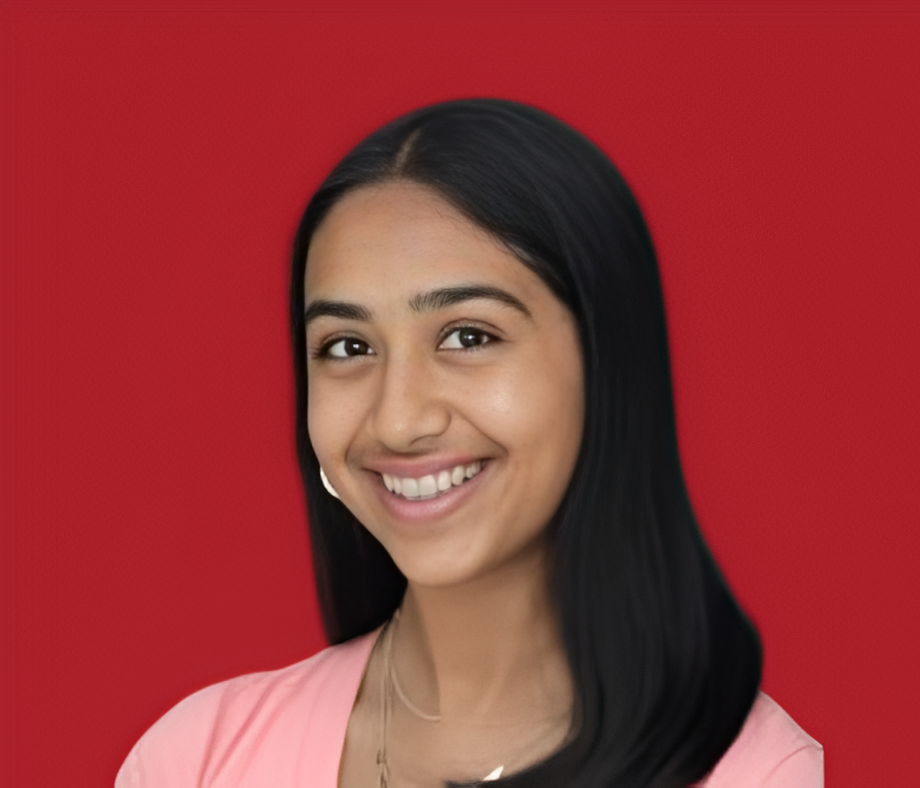
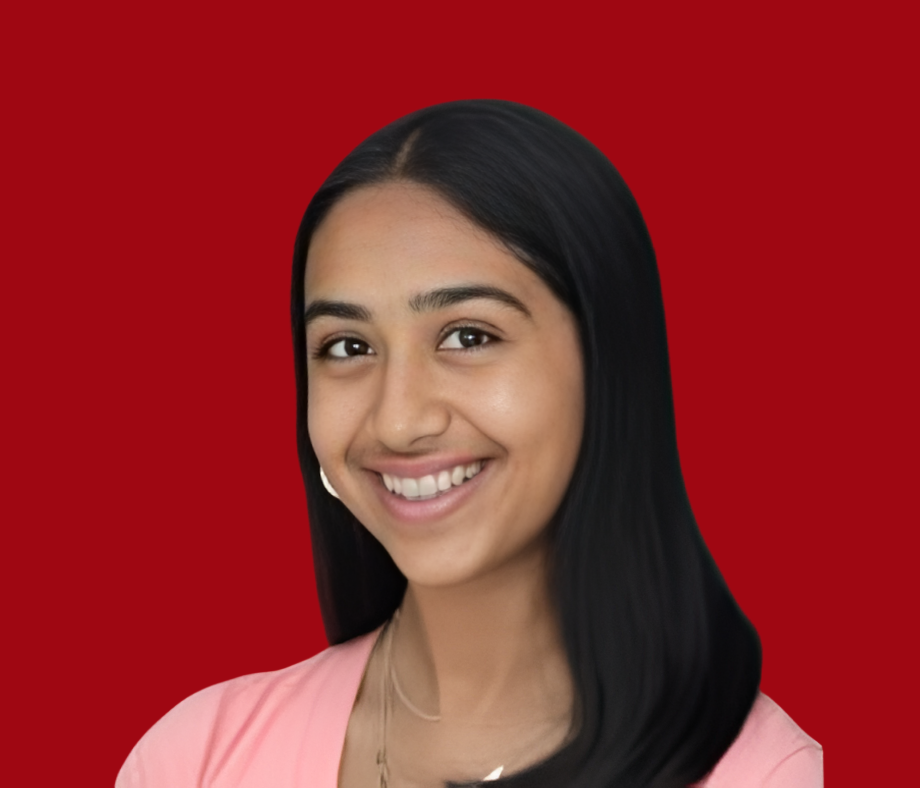
changed photo bg

Changed region(s): [[0.0, 0.0, 1.0, 1.0]]

diff --git a/src/app/HomeClient.tsx b/src/app/HomeClient.tsx
@@ -33,7 +33,7 @@ const HomeClient = () => {
         <div className="relative h-full flex flex-col items-center justify-center px-4 z-10">
           <h1 className="font-black tracking-tight text-white text-7xl lg:text-9xl text-center ">
             <span
-              className="text-red-700"
+              className="text-red-800"
 
             >
               {"UHS"}
@@ -44,14 +44,14 @@ const HomeClient = () => {
             className="pt-3.5 font-black tracking-tight text-white text-7xl lg:text-8xl text-center ">
                <CryptoText text="2027" />
             </h2> 
-          <h3 className="max-w-2xl text-center font-semibold lg:text-3xl text-2xl text-white my-8">
-            MANY VOICES, ONE UNIVERSITY
+          <h3 className="max-w-3xl text-center font-semibold lg:text-3xl text-2xl text-white my-8">
+            MANY VOICES, ONE UHS
 
             <span
-              className="text-red-700"
+              className="text-red-800"
 
             >
-              {"{HACKATHON} "}
+              {" {HACKS} "}
             </span>
           </h3>
         </div>
@@ -279,32 +279,32 @@ const HomeClient = () => {
           <div className='grid grid-cols-1 xl:grid-cols-3 lg:grid-cols-2 gap-y-12 gap-x-8 place-items-center items-start'>
             <Person
               name="Ella Shaul"
-              bio="Hi, I'm Ella and I'm super excited to lead UHS Hacks 2027! In my free time I like to hang out with friends, listen to music, and anything STEM related. You can reach me at: elmshaul@gmail.com"
-              image="/people/ellapic.png"
+              bio="Hi, I'm Ella and I'm super excited to lead UHS Hacks 2027! In my free time I like to hang out with friends, listen to music, and anything STEM related."
+              image="/people/ella.png"
               title="Lead Organizer"
             />
 
             <Person
               name="Aishwarya Jha"
-              bio="Hi, I'm Aishi, and I'm delighted to support UHS Hacks this year. I like to code and build websites, play volleyball, and hang out with family and friends. You can reach me at: aishwaryapjha@gmail.com"
+              bio="Hi, I'm Aishi, and I'm delighted to support UHS Hacks this year. I like to code and build websites, play volleyball, and hang out with family and friends."
               image="/people/aishi.png"
               title="Volunteer"
             />
             <Person
               name="Surina Chandra"
-              bio="Hi, I’m Surina, and I’m excited to help out with UHS Hacks this year. I love 3D modeling, spending time with friends, and anything in the science department! You can reach me at: "
+              bio="Hi, I’m Surina! I’m excited to help with UHS Hacks this year. I love 3D modeling, spending time with friends, and anything in the science department! "
               image="/people/surina.png"
               title="Volunteer"
             />
             <Person
               name="Vihaan Paka-Hedge"
-              bio="Hi, I’m Surina, and I’m excited to help out with UHS Hacks this year. I love 3D modeling, spending time with friends, and anything in the science department excites me! You can reach me at: "
+              bio="Hi, I’m Surina! I’m excited to help with UHS Hacks this year. I love 3D modeling, spending time with friends, and anything in the science department!  "
               image="/people/vihaan.png"
               title="Volunteer"
             />
             <Person
               name="Phoebe Schofield"
-              bio="“Hi, I’m Phoebe! In my free time I enjoy dancing and logic puzzles of any kind. I’m thrilled to help out with the UHS Hackathon this year! You can reach me at: phoebe.ahn.schofield@gmail.com”"
+              bio="Hi, I’m Phoebe! In my free time I enjoy dancing and logic puzzles of any kind. I’m thrilled to help out with the UHS Hackathon this year!"
               image="/people/phoebe.png"
               title="Volunteer"
             />
@@ -353,7 +353,7 @@ const HomeClient = () => {
             <p className=" text-base ">
               &copy; {year} UHS Hacks. All rights reserved.
             </p>
-            <p>Website built by <Link href="https://github.com/jacob-s-codes" target="_blank" className="hover:cursor-pointer hover:text-black">Jacob S</Link></p>
+            <p>Website built by <Link href="https://github.com/ella-m-shaul" target="_blank" className="hover:cursor-pointer hover:text-black">Ella Shaul</Link></p>
             <p className=' text-center'>Questions? Email: <a href="mailto:info@uhshacks.com" className='font-bold hover:underline'>info@uhshacks.com</a></p>
           </div>
         </div>

diff --git a/src/app/components/Judge.tsx b/src/app/components/Judge.tsx
@@ -18,7 +18,7 @@ const Judges = ({ image, link, name, title }: JudgesProps) => {
         <div className="max-w-sm rounded-2xl overflow-hidden shadow-lg bg-white border border-black hover:shadow-xl transition-shadow duration-300">
             {/* Judge Placeholder */}
             <div className="w-full h-72 flex items-center justify-center bg-gray-200">
-                <span className="text-9xl font-black text-red-700">?</span>
+                <span className="text-9xl font-black text-red-800">?</span>
             </div>
             {/* Content */}
             <div className="p-5 flex flex-col space-y-3 border-t border-black">

diff --git a/src/app/components/Accoridion.tsx b/src/app/components/Accoridion.tsx
@@ -26,7 +26,7 @@ const Accordion = ({ items }: { items: AccordionItem[] }) => {
           <button
             onClick={() => toggleAccordion(index)}
             className="w-full flex justify-between items-center 
-                       p-4 text-left bg-red-200 hover:bg-red-700 hover:cursor-pointer hover:text-white 
+                       p-4 text-left bg-red-200 hover:bg-red-800 hover:cursor-pointer hover:text-white 
                        transition-colors duration-200"
           >
             <span className="font-semibold">{item.title}</span>
